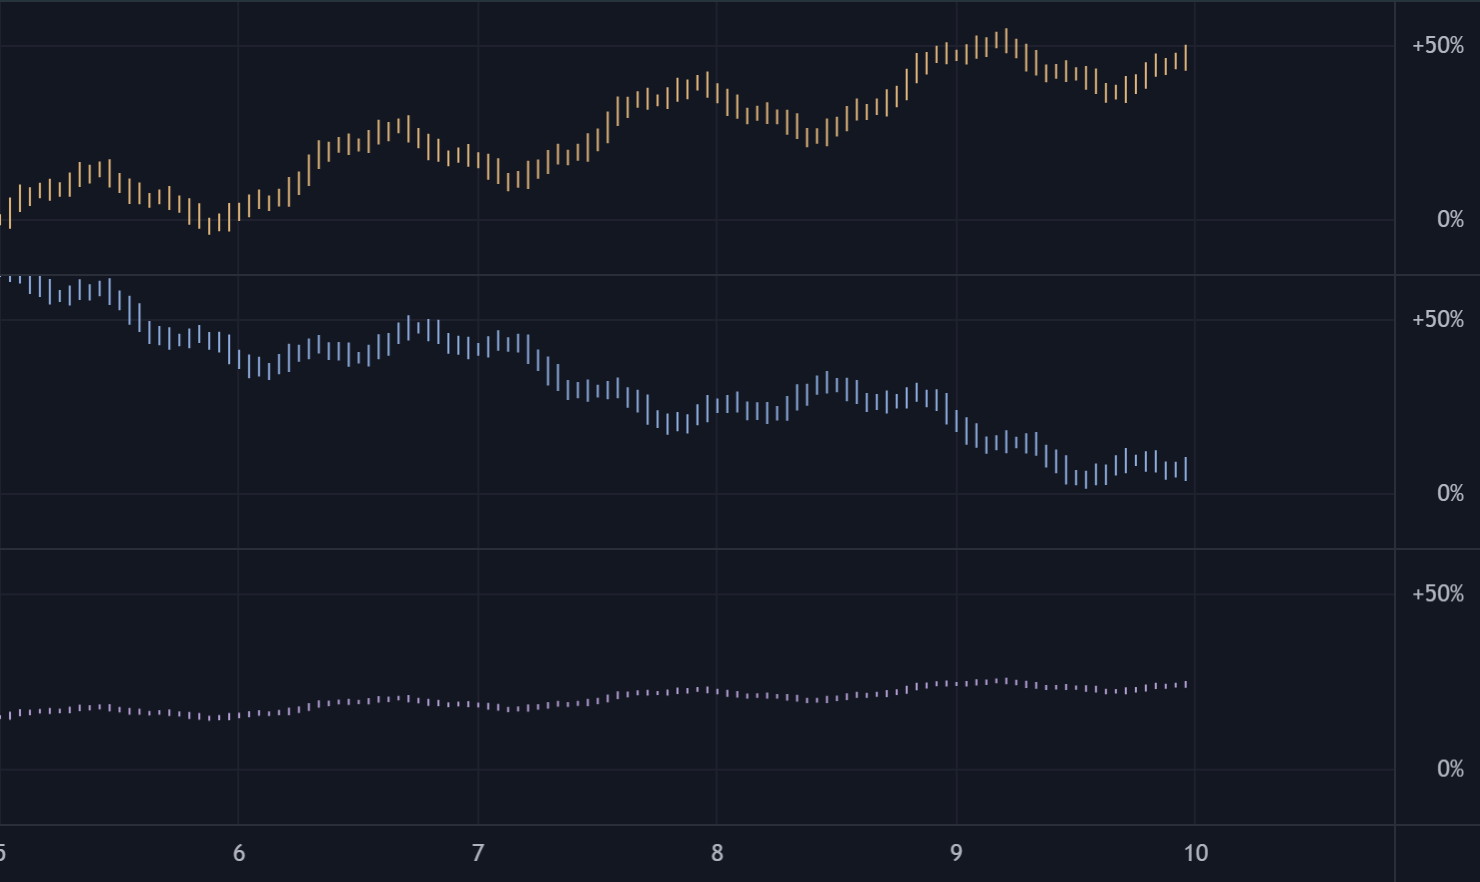
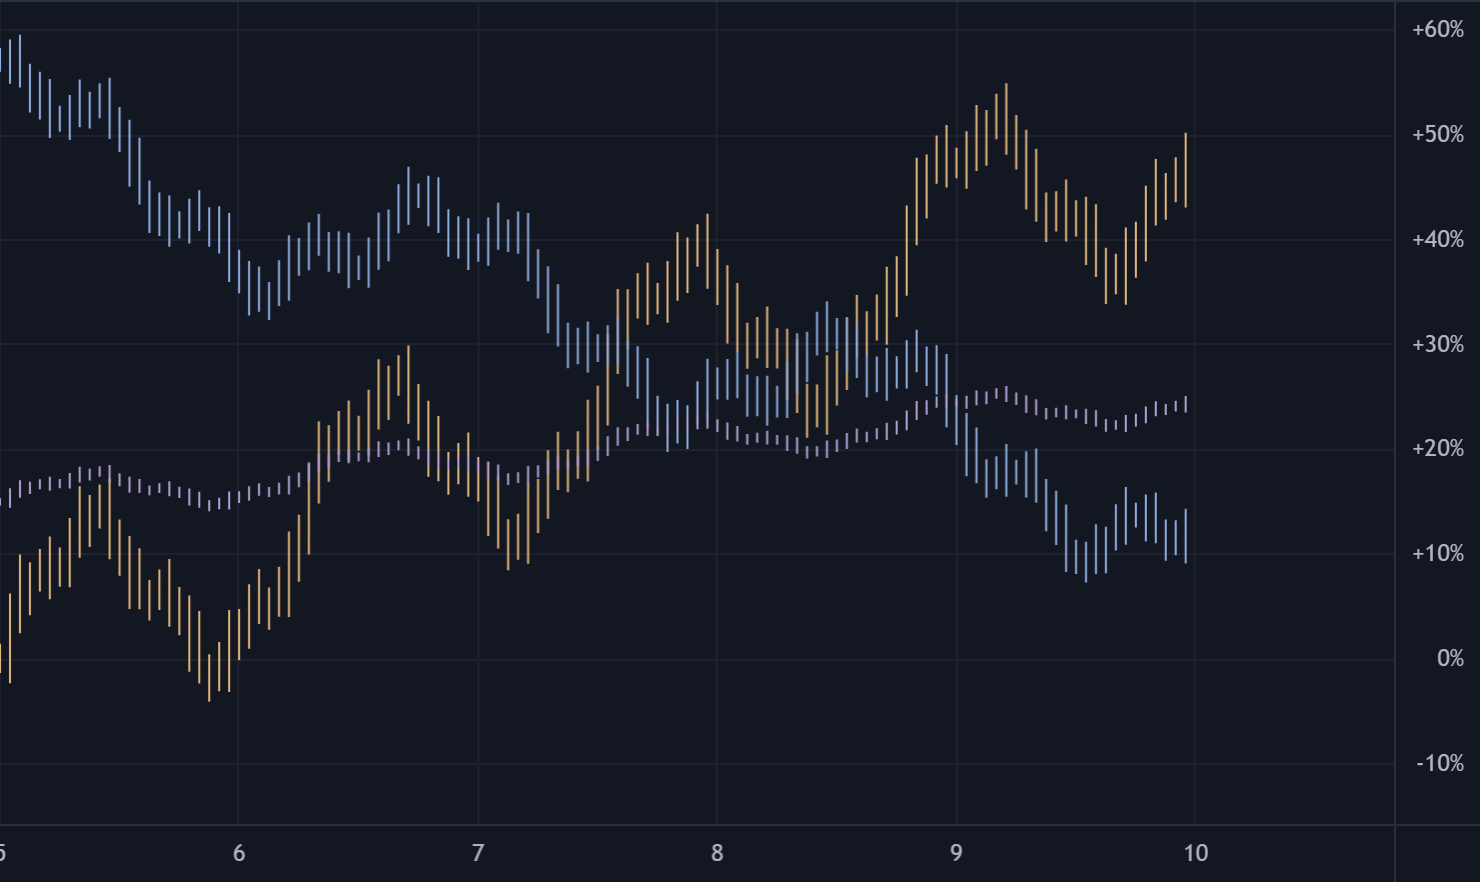
Compare percentage series in one viewport

diff --git a/apps/charts-demo/tests/unit/percentage.spec.ts b/apps/charts-demo/tests/unit/percentage.spec.ts
@@ -35,38 +35,35 @@ describe('percentage comparison example', () => {
     }
   }
   function series() {
-    return scene.chart.panes.map(pane => pane.model.dataSource.get<CandlestickPlot>('OHLCv1').descriptor.options.data.content!);
-  }
-  function referencePrices() {
-    return scene.chart.panes.map(pane => pane.model.priceAxis.referencePrice.value);
+    const source = scene.chart.paneModel('main').dataSource;
+    return ['OHLCv1', 'OHLCv2', 'OHLCv3'].map(id => source.get<CandlestickPlot>(id).descriptor.options.data.content!);
   }
   function firstVisibleIndex() {
     return Math.max(0, Math.floor((scene.chart.timeAxis.range.from - time(0)) / HOUR));
   }
 
-  it('uses distinct sources and the primary first visible close for every percentage axis', async () => {
+  it('displays three independent price series in one viewport using the primary first visible close as zero', async () => {
     await settleRanges();
     const chart = scene.chart;
     const content = series();
-    expect(chart.panes.map(pane => pane.model.dataSource.id)).toEqual(['main', 'comparison', 'third']);
-    expect(new Set(chart.panes.map(pane => pane.model.dataSource)).size).toBe(3);
+    expect(chart.panes).toHaveLength(1);
+    const viewport = chart.paneModel('main');
+    expect(Array.from(viewport.dataSource).map(entry => entry.descriptor.ref)).toEqual(['OHLCv1', 'OHLCv2', 'OHLCv3']);
+    expect(new Set(content).size).toBe(3);
+    expect(new Set(content.map(data => data.values)).size).toBe(3);
     expect(content[0].values).not.toEqual(content[1].values);
     expect(content[0].values).not.toEqual(content[2].values);
     const index = firstVisibleIndex();
     const primaryClose = content[0].values[index][3];
-    expect(referencePrices()).toEqual([primaryClose, primaryClose, primaryClose]);
-    for (const pane of chart.panes) {
-      const axis = pane.model.priceAxis;
-      expect(axis.primaryEntryRef.value?.ds).toBe(chart.paneModel('main').dataSource);
-      expect(axis.primaryEntryRef.value?.entryRef).toBe('OHLCv1');
-      expect(axis.scale.id).toBe('percentage');
-      expect(axis.controlMode.value).toBe(ControlMode.AUTO);
-      expect(axis.formatPrice(primaryClose, 1)).toBe('0%');
-      expect(axis.range).toEqual(chart.paneModel('main').priceAxis.range);
-    }
-    for (let paneIndex = 1; paneIndex < chart.panes.length; paneIndex++) {
-      const axis = chart.panes[paneIndex].model.priceAxis;
-      const ownClose = content[paneIndex].values[index][3];
+    const axis = viewport.priceAxis;
+    expect(axis.referencePrice.value).toBe(primaryClose);
+    expect(axis.primaryEntryRef.value?.ds).toBe(viewport.dataSource);
+    expect(axis.primaryEntryRef.value?.entryRef).toBe('OHLCv1');
+    expect(axis.scale.id).toBe('percentage');
+    expect(axis.controlMode.value).toBe(ControlMode.AUTO);
+    expect(axis.formatPrice(primaryClose, 1)).toBe('0%');
+    for (let seriesIndex = 1; seriesIndex < content.length; seriesIndex++) {
+      const ownClose = content[seriesIndex].values[index][3];
       expect(axis.referencePrice.value).not.toBe(ownClose);
       expect(axis.formatPrice(ownClose, 0.01)).not.toBe('0%');
     }
@@ -78,34 +75,38 @@ describe('percentage comparison example', () => {
     await settleRanges();
     const chart = scene.chart;
     const initialRange = { ...chart.timeAxis.range };
-    const initialReference = referencePrices()[0]!;
+    const axis = chart.paneModel('main').priceAxis;
+    const initialReference = axis.referencePrice.value!;
     const beforeValues = series().map(content => content.values.map(bar => [...bar]));
     chart.timeAxis.move(160);
     await settleRanges();
     const pannedRange = { ...chart.timeAxis.range };
     const pannedClose = series()[0].values[firstVisibleIndex()][3];
     expect(pannedClose).not.toBe(initialReference);
-    expect(referencePrices()).toEqual([pannedClose, pannedClose, pannedClose]);
+    expect(axis.referencePrice.value).toBe(pannedClose);
     expect(chart.timeAxis.controlMode.value).toBe(ControlMode.MANUAL);
     expect(series().map(content => content.values)).toEqual(beforeValues);
     chart.undo();
     await settleRanges();
     expect(chart.timeAxis.range).toEqual(initialRange);
-    expect(referencePrices()).toEqual([initialReference, initialReference, initialReference]);
+    expect(axis.referencePrice.value).toBe(initialReference);
     chart.redo();
     await settleRanges();
     expect(chart.timeAxis.range).toEqual(pannedRange);
-    expect(referencePrices()).toEqual([pannedClose, pannedClose, pannedClose]);
+    expect(axis.referencePrice.value).toBe(pannedClose);
     expect(series().map(content => content.values)).toEqual(beforeValues);
-    expect(chart.panes.map(pane => pane.model.priceAxis.primaryEntryRef.value?.ds.id)).toEqual(['main', 'main', 'main']);
+    expect(axis.primaryEntryRef.value?.ds.id).toBe('main');
+    expect(axis.primaryEntryRef.value?.entryRef).toBe('OHLCv1');
   });
 
   it('does not allow an independent secondary source to change the common percentage zero', async () => {
     await settleRanges();
     const chart = scene.chart;
-    const initialBase = referencePrices()[0]!;
-    const comparison = chart.paneModel('comparison').dataSource;
-    comparison.noHistoryManagedEntriesProcess<CandlestickPlot>(['OHLCv1'], entry => {
+    const viewport = chart.paneModel('main');
+    const initialBase = viewport.priceAxis.referencePrice.value!;
+    const initialPrimary = series()[0].values.map(bar => [...bar]);
+    const initialThird = series()[2].values.map(bar => [...bar]);
+    viewport.dataSource.noHistoryManagedEntriesProcess<CandlestickPlot>(['OHLCv2'], entry => {
       const content = entry.descriptor.options.data.content!;
       entry.descriptor.options.data.content = {
         ...content,
@@ -115,7 +116,26 @@ describe('percentage comparison example', () => {
       };
     });
     await settleRanges();
-    expect(referencePrices()).toEqual([initialBase, initialBase, initialBase]);
+    expect(viewport.priceAxis.referencePrice.value).toBe(initialBase);
+    expect(series()[0].values).toEqual(initialPrimary);
+    expect(series()[2].values).toEqual(initialThird);
     expect(chart.isCanUndo).toBe(false);
+  });
+
+  it('keeps all three markets inside native AUTO in the full view and during an ordinary pan', async () => {
+    await settleRanges();
+    const chart = scene.chart;
+    const axis = chart.paneModel('main').priceAxis;
+    function expectVisiblePricesInsideRange() {
+      for (const content of series()) {
+        const visible = content.values.slice(firstVisibleIndex());
+        expect(axis.range.from).toBeLessThan(Math.min(...visible.map(bar => bar[2])));
+        expect(axis.range.to).toBeGreaterThan(Math.max(...visible.map(bar => bar[1])));
+      }
+    }
+    expectVisiblePricesInsideRange();
+    chart.timeAxis.move(160);
+    await settleRanges();
+    expectVisiblePricesInsideRange();
   });
 });

diff --git a/apps/charts-demo/src/gallery/examples/percentage.ts b/apps/charts-demo/src/gallery/examples/percentage.ts
@@ -14,14 +14,22 @@ export default function create(): ExampleScene {
       return [compress(open), compress(high), compress(low), compress(close), volume];
     }),
   };
+  const falling = marketData('falling');
+  const comparison: OHLCv = {
+    ...falling,
+    values: falling.values.map(([open, high, low, close, volume]) => {
+      const compress = (price: Price) => (130 + (price - 130) * 0.8) as Price;
+      return [compress(open), compress(high), compress(low), compress(close), volume];
+    }),
+  };
   const markets = [
-    { id: 'main', label: 'Primary · rising', color: '#e2b77c', content: primaryData },
-    { id: 'comparison', label: 'Comparison · falling', color: '#8faee0', content: marketData('falling') },
-    { id: 'third', label: 'Third · low volatility', color: '#b5a0d5', content: lowVolatility },
+    { id: 'OHLCv1', label: 'Primary · rising', color: '#e2b77c', content: primaryData },
+    { id: 'OHLCv2', label: 'Comparison · falling', color: '#8faee0', content: comparison },
+    { id: 'OHLCv3', label: 'Third · low volatility', color: '#b5a0d5', content: lowVolatility },
   ];
-  const sources = markets.map(({ id, color, content }) => {
+  const drawings = markets.map(({ id, color, content }) => {
     const candles: DrawingOptions<CandlestickPlot> = {
-      id: 'OHLCv1', type: 'OHLCv', visible: true, locked: true,
+      id, type: 'OHLCv', visible: true, locked: true,
       data: {
         content,
         plotOptions: {
@@ -34,15 +42,12 @@ export default function create(): ExampleScene {
         },
       },
     };
-    return new DataSource({ id, idHelper: chart.idHelper }, [candles]);
+    return candles;
   });
-  const primaryEntryRef = { ds: sources[0], entryRef: 'OHLCv1' };
-  for (const source of sources) {
-    chart.createPane(source, {
-      priceAxis: { primaryEntry: 'OHLCv1', scale: 'percentage', controlMode: ControlMode.AUTO },
-    });
-    chart.paneModel(source.id).priceAxis.noHistoryManagedUpdate({ primaryEntryRef });
-  }
+  const source = new DataSource({ id: 'main', idHelper: chart.idHelper }, drawings);
+  chart.createPane(source, {
+    priceAxis: { primaryEntry: 'OHLCv1', scale: 'percentage', controlMode: ControlMode.AUTO },
+  });
   chart.timeAxis.noHistoryManagedUpdate({
     range: { from: primaryData.loaded.from, to: (primaryData.loaded.to + 20 * HOUR) as typeof primaryData.loaded.to },
     controlMode: ControlMode.AUTO,
@@ -56,7 +61,7 @@ export default function create(): ExampleScene {
       const base = chart.paneModel('main').priceAxis.referencePrice.value;
       return base === undefined ? 'No visible primary bar' : `0% = ${base.toFixed(2)} · primary first visible close`;
     },
-    note: 'Three independent sources share the first visible close of the amber primary series as 0%. '
-      + 'Pan to change that common reference. The primary series also supplies the automatic price range for all three panes.',
+    note: 'Three independent price series share one viewport and the first visible close of the amber primary series as 0%. '
+      + 'Pan to change that common reference. AUTO fits the primary series; a tight zoom can clip comparisons outside its price range.',
   };
 }

diff --git a/apps/charts-demo/tests/e2e/layout-dpr.spec.ts b/apps/charts-demo/tests/e2e/layout-dpr.spec.ts
@@ -12,24 +12,24 @@ async function expectPanesInsideChart(page: Page) {
       timelineInside: timeline.bottom <= bounds.bottom + 1,
       fillsHeight: Math.abs(timeline.bottom - bounds.bottom) < 1,
     };
-  })).toEqual({ count: 3, contained: true, minimumSize: true, timelineInside: true, fillsHeight: true });
+  })).toEqual({ count: 2, contained: true, minimumSize: true, timelineInside: true, fillsHeight: true });
 }
 
 async function paneHeights(page: Page) {
   const heights = await page.locator('.viewport').evaluateAll(panes => panes.map(pane => pane.getBoundingClientRect().height));
-  expect(heights).toHaveLength(3);
-  return heights as [number, number, number];
+  expect(heights).toHaveLength(2);
+  return heights as [number, number];
 }
 
 test.describe('pane layout at high pixel density', () => {
   test.use({ deviceScaleFactor: 2 });
 
   for (const width of [802, 390]) {
-    test(`fits three panes and their timeline before and after resize at ${width}px`, async ({ page }) => {
+    test(`fits two panes and their timeline before and after resize at ${width}px`, async ({ page }) => {
       await page.setViewportSize({ width, height: 1100 });
       const errors: string[] = [];
       page.on('pageerror', error => errors.push(error.message));
-      await page.goto('./#/examples/percentage');
+      await page.goto('./#/examples/panes');
       const host = page.locator('.chart-host');
       await host.evaluate((element, viewportWidth) => {
         const chartElement = element as HTMLElement;
@@ -52,7 +52,6 @@ test.describe('pane layout at high pixel density', () => {
       await expect.poll(async () => Math.abs((await paneHeights(page))[0] - before[0] - 24)).toBeLessThan(1);
       const changed = await paneHeights(page);
       expect(changed[1]).toBeCloseTo(before[1] - 24, 0);
-      expect(changed[2]).toBeCloseTo(before[2], 0);
       await expectPanesInsideChart(page);
 
       const undo = page.getByRole('button', { name: 'Undo', exact: true });
@@ -64,7 +63,8 @@ test.describe('pane layout at high pixel density', () => {
       await redo.click();
       await expect.poll(async () => (await paneHeights(page)).every((height, index) => Math.abs(height - changed[index]!) < 1)).toBe(true);
 
-      await host.evaluate(element => { (element as HTMLElement).style.height = '460px'; });
+      // Both 100px minima fit in CSS space; multiplying them by DPR would overflow.
+      await host.evaluate(element => { (element as HTMLElement).style.height = '360px'; });
       await expectPanesInsideChart(page);
       await undo.click();
       await expectPanesInsideChart(page);

diff --git a/apps/charts-demo/tests/e2e/vue.spec.ts b/apps/charts-demo/tests/e2e/vue.spec.ts
@@ -31,7 +31,7 @@ for (const id of ['basic', 'candles', 'panes', 'scales', 'percentage', 'drawings
     page.on('pageerror', error => errors.push(error.message));
     await page.goto(`./#/examples/${id}`);
     await expect(page.locator('.chart-host canvas').first()).toBeVisible();
-    await expect(page.locator('.viewport')).toHaveCount(id === 'percentage' ? 3 : ['panes', 'shared'].includes(id) ? 2 : 1);
+    await expect(page.locator('.viewport')).toHaveCount(['panes', 'shared'].includes(id) ? 2 : 1);
     await expect.poll(() => page.locator('.viewport').evaluateAll(nodes => nodes.every(node =>
       node.clientHeight > 100 && node.clientHeight < 600 && node.clientWidth > 200,
     ))).toBe(true);
@@ -50,7 +50,7 @@ for (const id of ['basic', 'candles', 'panes', 'scales', 'percentage', 'drawings
       await expect(page.getByRole('tabpanel')).toContainText('event.drawingId');
       await expect(page.getByRole('link', { name: 'Open Tooltip source on GitHub' })).toHaveAttribute('href', `${sourceRoot}/ObjectEventTooltip.vue`);
     }
-    if (id === 'basic') {
+    if (id === 'basic' || id === 'percentage') {
       await expect(page.getByRole('tab', { name: 'Setup', exact: true })).toHaveCount(0);
     } else {
       await page.getByRole('tab', { name: 'Setup', exact: true }).click();
@@ -72,14 +72,16 @@ for (const id of ['basic', 'candles', 'panes', 'scales', 'percentage', 'drawings
   });
 }
 
-test('percentage panes share a moving primary reference and undo restores it', async ({ page }) => {
+test('percentage series occupy one viewport and undo restores their primary reference', async ({ page }) => {
   await page.goto('./#/examples/percentage');
   const status = page.getByTestId('scene-status');
   await expect(status).toContainText('primary first visible close');
+  await expect(page.locator('.viewport')).toHaveCount(1);
+  await expect(page.locator('.priceline')).toHaveCount(1);
   await expect(page.getByRole('list', { name: 'Chart series' }).getByRole('listitem')).toHaveCount(3);
   await expect.poll(() => page.locator('.priceline').evaluateAll(nodes => nodes.every(node => node.clientWidth > 20))).toBe(true);
   const initial = await status.innerText();
-  const viewport = page.locator('.viewport').first();
+  const viewport = page.locator('.viewport');
   const bounds = (await viewport.boundingBox())!;
   const x = bounds.x + bounds.width / 2;
   const y = bounds.y + bounds.height / 2;

diff --git a/apps/charts-demo/src/gallery/ExampleView.vue b/apps/charts-demo/src/gallery/ExampleView.vue
@@ -12,10 +12,11 @@ import dataCode from '@demo/gallery/data?raw';
 const props = defineProps<{ example: Example }>();
 const emit = defineEmits<{ reset: [] }>();
 const scene = props.example.create();
+const createsChartDirectly = props.example.id === 'basic' || props.example.id === 'percentage';
 type SourceTab = 'Example' | 'Vue' | 'Setup' | 'Data' | 'Tooltip' | 'Types';
 const tab = ref<SourceTab>('Example');
 const tabs = computed<SourceTab[]>(() => {
-  if (props.example.id === 'basic') return ['Example', 'Vue', 'Data', 'Types'];
+  if (createsChartDirectly) return ['Example', 'Vue', 'Data', 'Types'];
   return props.example.id === 'events'
     ? ['Example', 'Vue', 'Tooltip', 'Setup', 'Data', 'Types']
     : ['Example', 'Vue', 'Setup', 'Data', 'Types'];
@@ -114,7 +115,7 @@ async function copy() {
         inside a container with an explicit height. The Vue tab shows the component used above.
       </p>
       <p class="source-hint">
-        {{ example.id === 'basic' ? 'This example creates the chart directly.' : 'Setup contains the shared chart and pane creation.' }}
+        {{ createsChartDirectly ? 'This example creates the chart directly.' : 'Setup contains the shared chart and pane creation.' }}
         Chart appearance comes from the theme. Plot colors and drawing styles are currently required by the API.
       </p>
     </div>

diff --git a/apps/charts-demo/src/gallery/examples.ts b/apps/charts-demo/src/gallery/examples.ts
@@ -68,10 +68,10 @@ export const examples: Example[] = [
   },
   {
     id: 'percentage', title: 'One reference. Three markets.', category: 'Market',
-    description: 'Three price sources share one percentage base: the first visible price of the primary market.',
+    description: 'Three markets in one viewport, measured from the first visible price of the primary series.',
     tags: ['Percentage', 'Primary source'],
-    learning: 'Point every price axis at the primary series. Its first visible close sets the same 0% in all panes; the other'
-      + ' series keep their own prices. Panning changes the common reference without rewriting the data.',
+    learning: 'Add three independent price series to one pane and choose its primary entry. The primary first visible close'
+      + ' sets the shared 0%; panning changes this reference without rewriting any series.',
     create: percentage, code: percentageCode,
   },
   {

diff --git a/TESTING.md b/TESTING.md
@@ -73,6 +73,6 @@ The demo E2E suite covers the gallery's eleven deep-linked examples, category/se
 
 `apps/charts-demo/tests/unit/gallery.spec.ts` runs scenes in Node with controlled timers: distinct market series, shared/local drawing ownership and undo, candle/volume appends, pause/resume/disposal, bounded retention, native AUTO/justFollow, zoom preservation, manual-pan cancellation and visible-price fitting. Preferred ranges are driven through public sketcher/cache APIs, without Canvas rendering. Object event tests validate handler delegation, selection and source/object identity; the browser checks native hit testing and tooltip display, including DPR 2 after a container resize. Viewport unit tests verify body/handle coordinates at DPR 1, 1.25, 2 and 3. It is included in `npm test`; run just these checks with `npm -w apps/charts-demo run test:unit`.
 
-`scales.spec.ts` uses the public sketcher to verify that equal-endpoint trends swap straight/curved geometry when the axis changes, while their own interpolation spaces and data stay fixed. `percentage.spec.ts` verifies a single primary reference across three sources, rebasing on pan, independence from secondary-data updates and undo/redo without rewriting the other prices. Both run in Node without Canvas rendering.
+`scales.spec.ts` uses the public sketcher to verify that equal-endpoint trends swap straight/curved geometry when the axis changes, while their own interpolation spaces and data stay fixed. `percentage.spec.ts` verifies three independent market series in one viewport, their primary reference, rebasing on pan, independence from secondary-data updates and undo/redo without rewriting the other prices. Both run in Node without Canvas rendering.
 
-`layout-dpr.spec.ts` checks three panes and the timeline fit their chart at DPR 2 on desktop and mobile, including container resize, exact CSS divider movement and undo/redo before and after resize.
+`layout-dpr.spec.ts` checks two panes and the timeline fit their chart at DPR 2 on desktop and mobile, including container resize, exact CSS divider movement and undo/redo before and after resize.

diff --git a/README.md b/README.md
@@ -25,7 +25,7 @@ The streaming example appends a candle and volume bar every second, retains at m
 | Price & volume | Two plots using the same data; volume layer and primary price entry. |
 | Streaming | External data updates, automatic fitting, native follow, timer lifecycle and no-history updates. |
 | Scales | Two trends with equal endpoints, interpolated in linear/log price spaces and reprojected when the axis changes. |
-| Percentage | Three sources and one primary series: its first visible close sets a common 0% and AUTO range in all panes. |
+| Percentage | Three independent market series in one viewport; the primary series supplies the shared 0% and AUTO range. |
 | Panes | Independent sources/prices, shared time axis and resizing. |
 | Drawings | Horizontal/vertical/inclined lines, dash styles, handles, copying and undo. |
 | Channel | Built-in compound drawing with baseline and width handles; no extension registration. |
